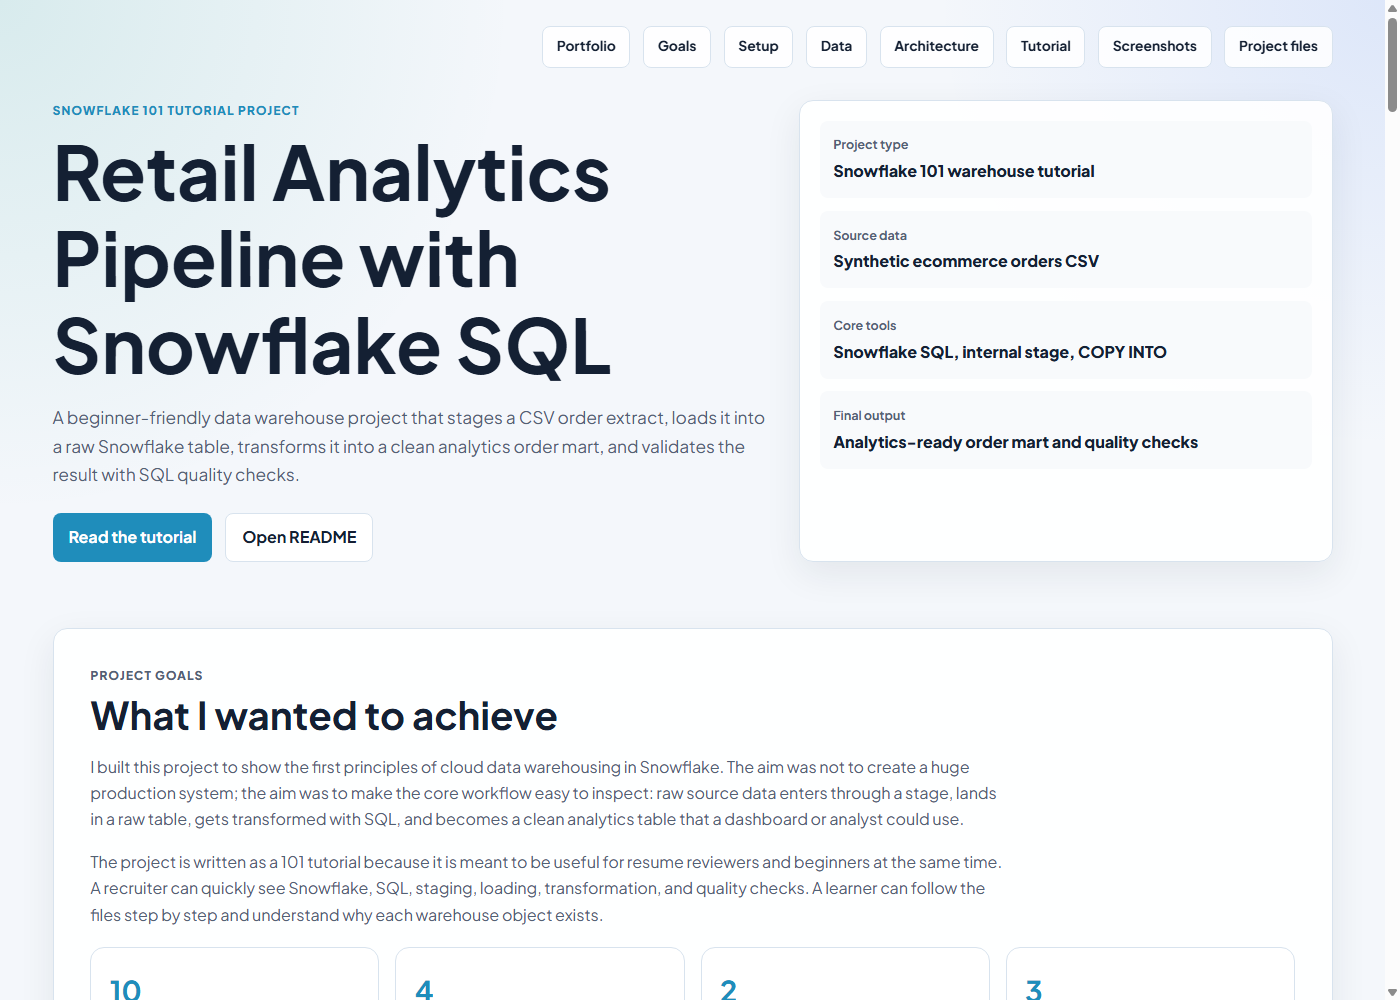
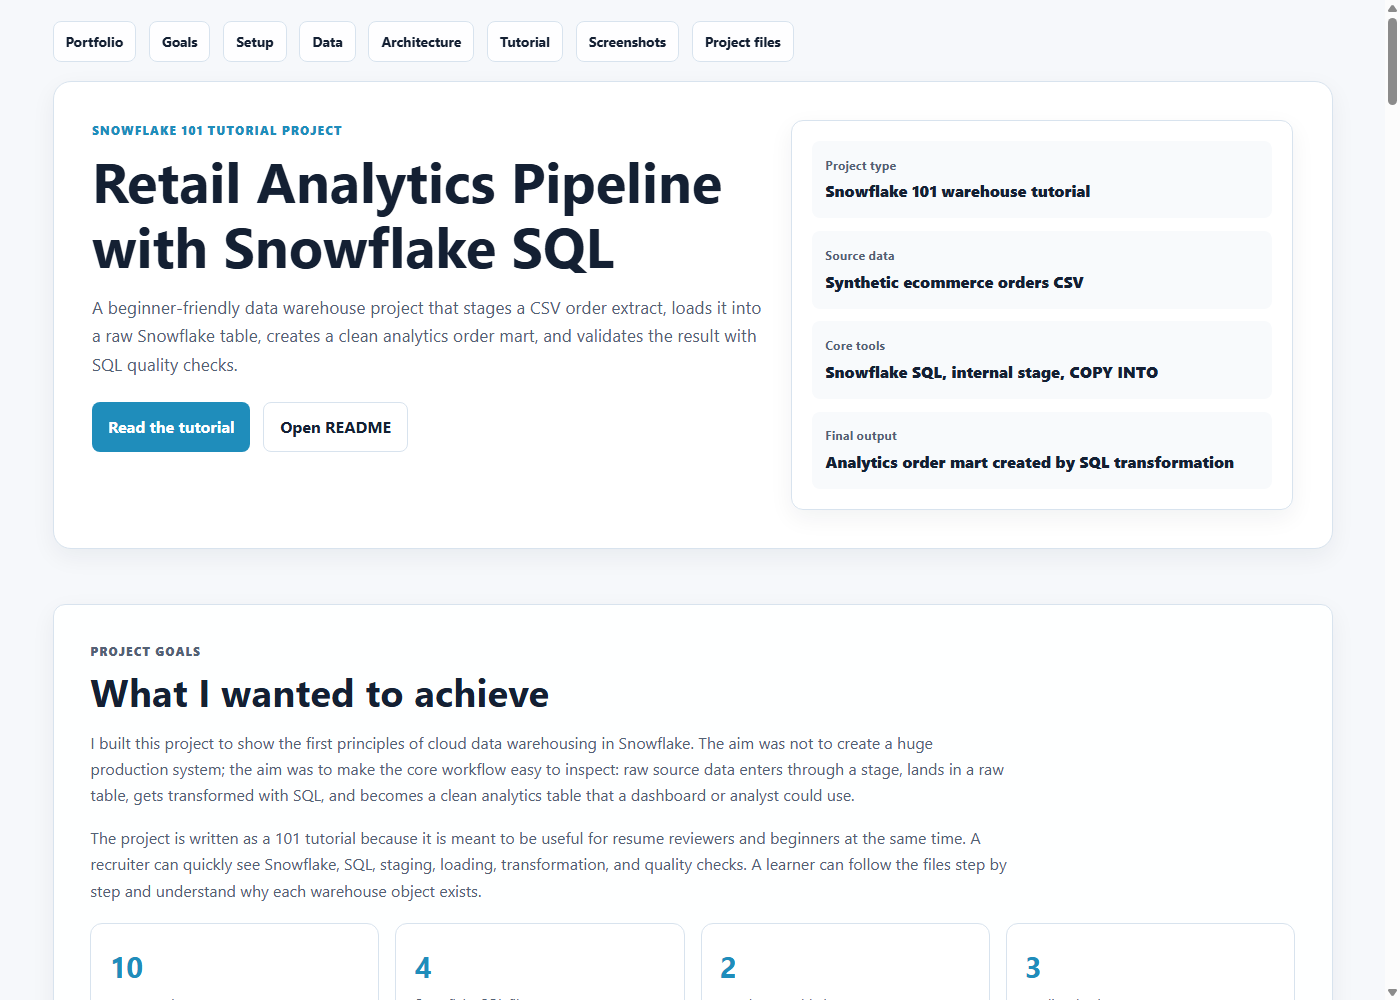
Fix Snowflake tutorial factual issues

diff --git a/projects/snowflake101/index.html b/projects/snowflake101/index.html
@@ -176,7 +176,7 @@
                 <p class="eyebrow">Snowflake 101 tutorial project</p>
                 <h1>Retail Analytics Pipeline with Snowflake SQL</h1>
                 <p class="hero-lead">
-                    A beginner-friendly data warehouse project that stages a CSV order extract, loads it into a raw Snowflake table, transforms it into a clean analytics order mart, and validates the result with SQL quality checks.
+                    A beginner-friendly data warehouse project that stages a CSV order extract, loads it into a raw Snowflake table, creates a clean analytics order mart, and validates the result with SQL quality checks.
                 </p>
                 <div class="hero-actions">
                     <a class="btn btn-primary" href="#tutorial">Read the tutorial</a>
@@ -188,7 +188,7 @@
                     <div><dt>Project type</dt><dd>Snowflake 101 warehouse tutorial</dd></div>
                     <div><dt>Source data</dt><dd>Synthetic ecommerce orders CSV</dd></div>
                     <div><dt>Core tools</dt><dd>Snowflake SQL, internal stage, COPY INTO</dd></div>
-                    <div><dt>Final output</dt><dd>Analytics-ready order mart and quality checks</dd></div>
+                    <div><dt>Final output</dt><dd>Analytics order mart created by SQL transformation</dd></div>
                 </dl>
             </div>
         </div>
@@ -258,7 +258,7 @@
                     <h3>Expected beginner workflow</h3>
                     <ul>
                         <li>Open Snowflake in the browser.</li>
-                        <li>Create the warehouse objects with <code>01_setup.sql</code>.</li>
+                        <li>Create the database, schema, warehouse, file format, stage, and raw table with <code>01_setup.sql</code>.</li>
                         <li>Upload the CSV to the internal stage.</li>
                         <li>Run the load, transform, and quality-check scripts in order.</li>
                     </ul>
@@ -325,7 +325,7 @@
                 <p class="eyebrow">Architecture</p>
                 <h2>How the Snowflake flow works</h2>
                 <p>
-                    The project uses a simple two-layer warehouse pattern. <code>RAW_ORDERS</code> receives data loaded from the staged CSV file. <code>ANALYTICS_ORDERS</code> is rebuilt from the raw table and contains the cleaned fields used for analysis.
+                    The project uses a simple two-layer warehouse pattern. <code>RAW_ORDERS</code> receives data loaded from the staged CSV file. <code>ANALYTICS_ORDERS</code> is created by the transformation script from the raw table and contains the cleaned fields used for analysis.
                 </p>
             </div>
             <div class="snowflake-flow" aria-label="Snowflake tutorial architecture flow">
@@ -405,8 +405,8 @@
                 </article>
                 <article>
                     <h3>Create Snowflake objects</h3>
-                    <p>Run <code>sql/01_setup.sql</code>. This creates <code>RESUME_DEMO_DB</code>, <code>RETAIL_ANALYTICS</code>, <code>COMPUTE_WH</code>, <code>CSV_WITH_HEADER</code>, <code>ORDER_STAGE</code>, <code>RAW_ORDERS</code>, and <code>ANALYTICS_ORDERS</code>.</p>
-                    <p><strong>Why it matters:</strong> Snowflake work starts with clear object organization. Separating database, schema, stage, and tables makes the project easier to operate and explain.</p>
+                    <p>Run <code>sql/01_setup.sql</code>. This creates <code>RESUME_DEMO_DB</code>, <code>RETAIL_ANALYTICS</code>, <code>COMPUTE_WH</code>, <code>CSV_WITH_HEADER</code>, <code>ORDER_STAGE</code>, and <code>RAW_ORDERS</code>. The analytics table is created later by <code>03_transform_orders.sql</code>.</p>
+                    <p><strong>Why it matters:</strong> Snowflake work starts with clear object organization. Separating database, schema, stage, and tables makes the project easier to operate and explain. Run setup before uploading the CSV; if you rerun setup later, upload the CSV again because replacing an internal stage removes files stored in that stage.</p>
                 </article>
                 <article>
                     <h3>Inspect the source CSV</h3>
@@ -420,7 +420,7 @@
                 </article>
                 <article>
                     <h3>Load the raw table with COPY INTO</h3>
-                    <p>Run <code>sql/02_load_raw_orders.sql</code>. The script truncates <code>RAW_ORDERS</code>, loads the staged file with <code>COPY INTO</code>, aborts on load errors, and returns a row count.</p>
+                    <p>Run <code>sql/02_load_raw_orders.sql</code>. The script truncates <code>RAW_ORDERS</code>, loads the staged file with <code>COPY INTO</code>, aborts on load errors, forces a reload of the staged file for repeatable tutorial runs, and returns a row count.</p>
                     <p><strong>Expected result:</strong> <code>RAW_ORDERS</code> contains 10 rows from the sample CSV.</p>
                 </article>
                 <article>
@@ -471,8 +471,8 @@ END AS net_revenue</code></pre>
                     </thead>
                     <tbody>
                         <tr><td>Setup script fails</td><td>The selected role cannot create objects.</td><td>Use a role with create privileges, or ask for database, schema, warehouse, stage, and table permissions.</td></tr>
-                        <tr><td><code>COPY INTO</code> loads zero rows</td><td>The CSV was not uploaded to <code>@ORDER_STAGE</code>, or the staged file name does not match the pattern.</td><td>Run <code>LIST @ORDER_STAGE;</code> and confirm the file is visible.</td></tr>
-                        <tr><td>Raw row count is not 10</td><td>The stage may contain an extra matching file from a previous attempt.</td><td>Remove old staged files or create a fresh stage, then upload only <code>orders.csv</code>.</td></tr>
+                        <tr><td><code>COPY INTO</code> loads zero rows</td><td>The CSV was not uploaded to <code>@ORDER_STAGE</code>, the staged file name does not match the pattern, or <code>FORCE = TRUE</code> was removed after an earlier load.</td><td>Run <code>LIST @ORDER_STAGE;</code> and confirm the file is visible. Keep <code>FORCE = TRUE</code> for repeatable tutorial runs.</td></tr>
+                        <tr><td>Raw row count is more than 10</td><td>The stage may contain extra matching files from previous attempts.</td><td>Remove old staged files or create a fresh stage, then upload only <code>orders.csv</code>.</td></tr>
                         <tr><td>Date or numeric values fail to load</td><td>The file format or CSV content does not match the table columns.</td><td>Confirm the CSV has one header row and values like <code>2026-01-03</code>, <code>329.99</code>, and <code>completed</code>.</td></tr>
                         <tr><td>Revenue looks too high</td><td>Returned or cancelled orders may have been counted as revenue.</td><td>Check the <code>CASE</code> expression in <code>03_transform_orders.sql</code>; only completed orders should contribute to <code>net_revenue</code>.</td></tr>
                     </tbody>

diff --git a/snowflake-101-tutorial/README.md b/snowflake-101-tutorial/README.md
@@ -147,7 +147,7 @@ The setup script creates:
 
 ## How To Run The Tutorial
 
-Open a Snowflake worksheet and run the SQL files in order.
+Use Snowsight worksheets for the SQL files. Upload the CSV through Snowsight's stage upload screen or through a Snowflake client such as SnowSQL or Snowflake CLI.
 
 ### 0. Prepare Snowflake
 
@@ -179,7 +179,7 @@ This matters because the SQL logic is based on what exists in the source file. F
 -- sql/01_setup.sql
 ```
 
-This creates the database, schema, warehouse, stage, file format, and tables.
+This creates the database, schema, warehouse, CSV file format, internal stage, and raw table.
 
 Objects created:
 
@@ -189,7 +189,9 @@ Objects created:
 - `CSV_WITH_HEADER`
 - `ORDER_STAGE`
 - `RAW_ORDERS`
-- `ANALYTICS_ORDERS`
+- `ANALYTICS_ORDERS` is created later by `03_transform_orders.sql`
+
+Important rerun note: `01_setup.sql` uses `CREATE OR REPLACE STAGE`. Replacing an internal stage removes files already uploaded to that stage. Run setup first, then upload `orders.csv`. If you rerun setup later, upload the CSV again before running the load script.
 
 ### 3. Upload The CSV
 
@@ -220,6 +222,8 @@ LIST @ORDER_STAGE;
 ```
 
 This truncates `RAW_ORDERS`, loads the staged CSV using `COPY INTO`, and returns the raw row count.
+
+The script uses `FORCE = TRUE` so the tutorial can be rerun with the same staged file. Without this, Snowflake's load history can skip a file that was already loaded in an earlier run.
 
 Expected row count:
 
@@ -268,8 +272,8 @@ Common issues and how to reason about them:
 | Symptom | Likely cause | What to check |
 | --- | --- | --- |
 | Setup script fails | The selected role cannot create Snowflake objects. | Use a role with create privileges, or ask for database, schema, warehouse, stage, and table permissions. |
-| `COPY INTO` loads zero rows | The file was not uploaded to `@ORDER_STAGE`, or the staged filename does not match the pattern. | Run `LIST @ORDER_STAGE;` and confirm the file is visible. |
-| Raw row count is not 10 | The stage may contain an extra matching file from a previous attempt. | Remove old staged files or create a fresh stage, then upload only `orders.csv`. |
+| `COPY INTO` loads zero rows | The file was not uploaded to `@ORDER_STAGE`, the staged filename does not match the pattern, or `FORCE = TRUE` was removed after an earlier load. | Run `LIST @ORDER_STAGE;` and confirm the file is visible. Keep `FORCE = TRUE` for repeatable tutorial runs. |
+| Raw row count is more than 10 | The stage may contain extra matching files from previous attempts. | Remove old staged files or create a fresh stage, then upload only `orders.csv`. |
 | Date or numeric values fail to load | The CSV structure does not match the target table or file format. | Confirm the CSV has one header row and values like `2026-01-03`, `329.99`, and `completed`. |
 | Revenue looks too high | Returned or cancelled orders may have been counted as revenue. | Check the `CASE` expression in `03_transform_orders.sql`; only completed orders should contribute to `net_revenue`. |
 
